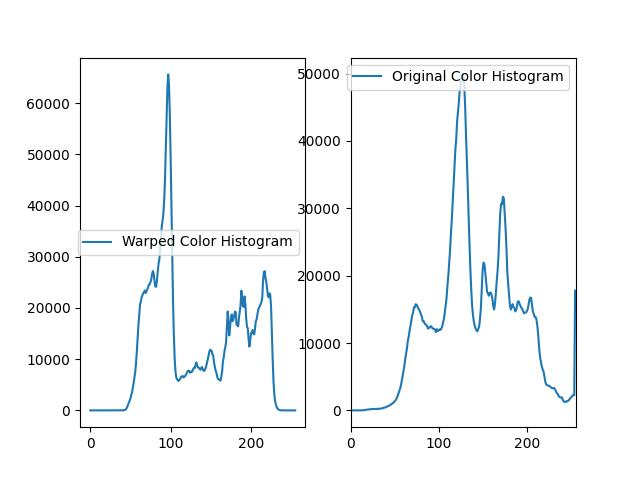
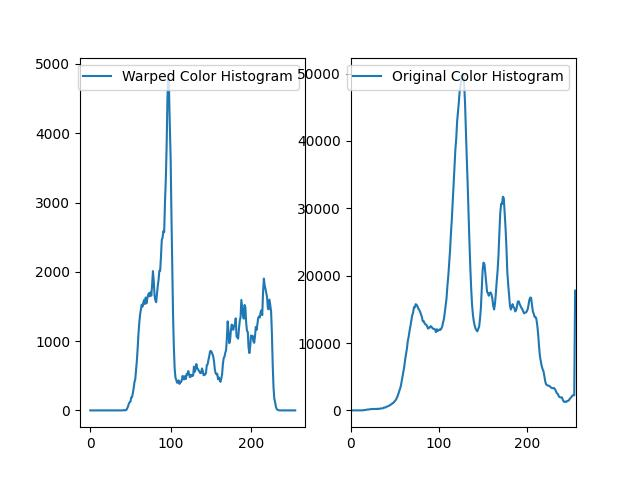
Fix resize and manual input

diff --git a/t1.py b/t1.py
@@ -44,13 +44,13 @@ def orderPoints(pts):
 
 
 def resizeImage(imagem):
+    pixel = 37.795275590551
+    dim = (int(width_cm * pixel), int( height_cm * pixel))
     
-    height_pixels, width_pixels, _ = image.shape
-    
-    dim = (int(height_pixels / height_cm), int(width_pixels / width_cm))
     resized = cv2.resize(imagem, dim, interpolation = cv2.INTER_AREA)
     
     return resized
+
 
 def fourPointTransform(image, pts):
 
@@ -73,14 +73,6 @@ def fourPointTransform(image, pts):
     m = cv2.getPerspectiveTransform(rect, dst)
     warped = cv2.warpPerspective(image, m, (maxWidth, maxHeight))
     return resizeImage(warped)
-
-def resizeImage(image):
-    width = imageOriginal.shape[1]
-    height = imageOriginal.shape[0]
-    dim = (width, height)
-    resized = cv2.resize(image, dim, interpolation = cv2.INTER_AREA)
-    
-    return resized
 
 def plotImages(warped):
     cv2.namedWindow("Original", cv2.WINDOW_NORMAL)  
